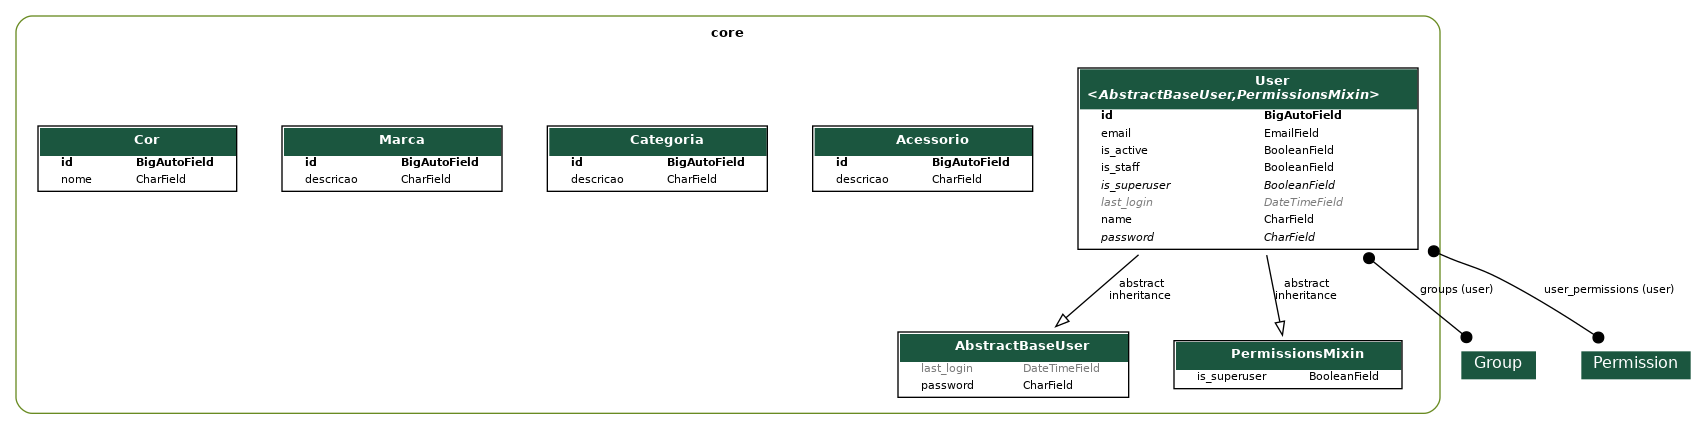
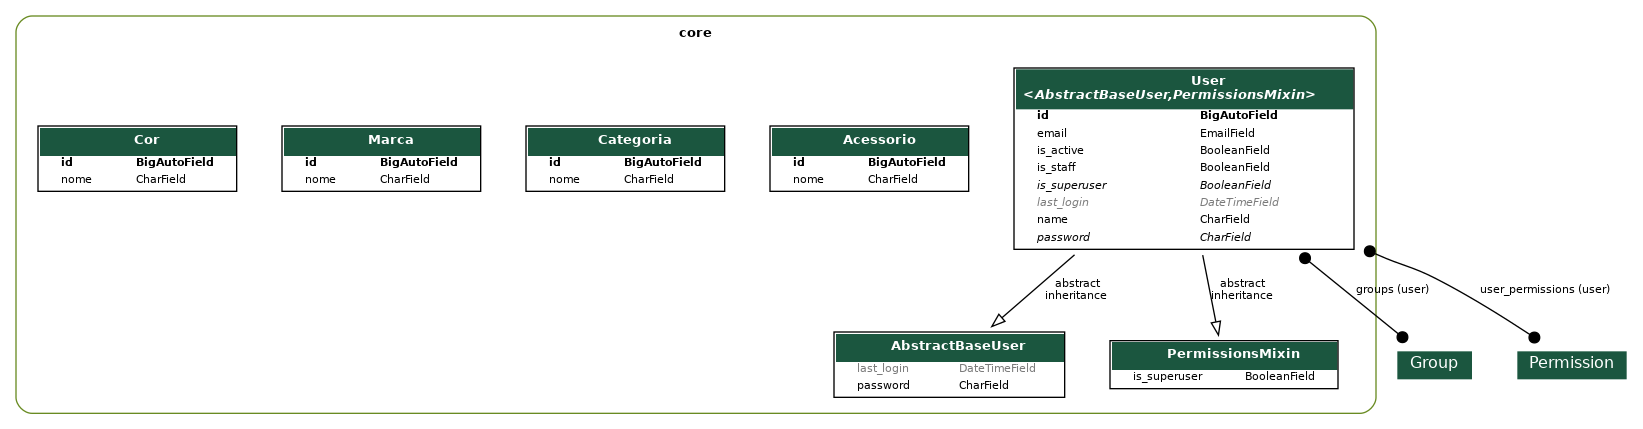
Alteração dos nomes em singular para plural nas urls

diff --git a/app/urls.py b/app/urls.py
@@ -9,15 +9,18 @@ from drf_spectacular.views import (
 from rest_framework.routers import DefaultRouter
 from rest_framework_simplejwt.views import TokenObtainPairView, TokenRefreshView
 
-from core.views import UserViewSet, CorViewSet, CategoriaViewSet, AcessorioViewSet, MarcaViewSet
+from core.views import AcessorioViewSet, CorViewSet, CategoriaViewSet, UserViewSet , MarcaViewSet
 
 router = DefaultRouter()
 
+router.register(r"acessorios", AcessorioViewSet, basename="acessorios")
+router.register(r"cors", CorViewSet, basename="cors")
+router.register(r"categorias", CategoriaViewSet, basename="categorias")
 router.register(r"users", UserViewSet, basename="users")
-router.register(r"cor", CorViewSet, basename="cor")
-router.register(r"categoria", CategoriaViewSet, basename="categoria")
-router.register(r"acessorio", AcessorioViewSet, basename="acessorio")
-router.register(r"marca", MarcaViewSet, basename="marca")
+router.register(r"marcas", MarcaViewSet, basename="marcas")
+
+
+
 
 urlpatterns = [
     path("admin/", admin.site.urls),

diff --git a/core/migrations/0004_rename_descricao_acessorio_nome_and_more.py b/core/migrations/0004_rename_descricao_acessorio_nome_and_more.py
@@ -1,0 +1,28 @@
+# Generated by Django 5.0.2 on 2024-04-01 17:05
+
+from django.db import migrations
+
+
+class Migration(migrations.Migration):
+
+    dependencies = [
+        ("core", "0003_cor"),
+    ]
+
+    operations = [
+        migrations.RenameField(
+            model_name="acessorio",
+            old_name="descricao",
+            new_name="nome",
+        ),
+        migrations.RenameField(
+            model_name="categoria",
+            old_name="descricao",
+            new_name="nome",
+        ),
+        migrations.RenameField(
+            model_name="marca",
+            old_name="descricao",
+            new_name="nome",
+        ),
+    ]

diff --git a/core/models/categoria.py b/core/models/categoria.py
@@ -1,7 +1,7 @@
 from django.db import models
 
 class Categoria(models.Model):
-    descricao = models.CharField(max_length=100)
+    nome = models.CharField(max_length=100)
 
-def __str__(self):
-    return f"{self.descricao} ({self.id})"
+    def __str__(self):
+        return f"{self.nome} ({self.id})"

diff --git a/core/models/marca.py b/core/models/marca.py
@@ -1,7 +1,7 @@
 from django.db import models
 
 class Marca(models.Model):
-    descricao = models.CharField(max_length=100)
+    nome = models.CharField(max_length=100)
     
-def __str__(self):
-    return f"{self.descricao} ({self.id})"
+    def __str__(self):
+        return f"{self.nome} ({self.id})"

diff --git a/core/models/acessorio.py b/core/models/acessorio.py
@@ -1,7 +1,7 @@
 from django.db import models
 
 class Acessorio(models.Model):
-    descricao = models.CharField(max_length=100)
+    nome = models.CharField(max_length=100)
 
-def __str__(self):
-    return f"{self.descricao} ({self.id})"
+    def __str__(self):
+     return f"{self.nome} ({self.id})"

diff --git a/core/models/cor.py b/core/models/cor.py
@@ -3,5 +3,5 @@ from django.db import models
 class Cor(models.Model):
     nome = models.CharField(max_length=100)
 
-def __str__(self):
-    return f"{self.descricao} ({self.id})"
+    def __str__(self):
+         return f"{self.nome} ({self.id})"
